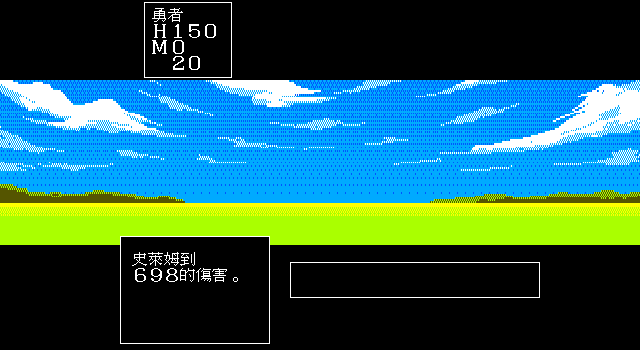
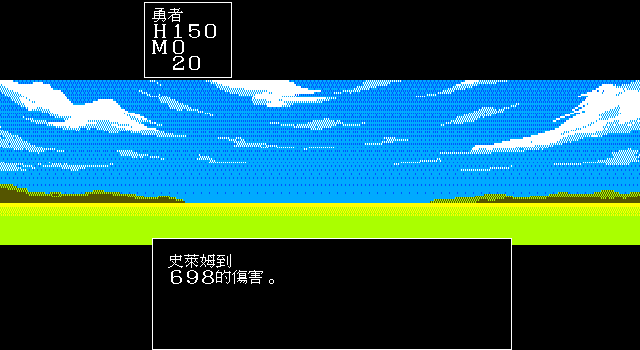
fix: 對齊精訊版戰鬥訊息視窗幾何

diff --git a/dq3_remake_ebitan/game/battle.go b/dq3_remake_ebitan/game/battle.go
@@ -6,6 +6,7 @@ import (
 
 	"github.com/wicanr2/dq3_remake_ebitan/internal/battle"
 	"github.com/wicanr2/dq3_remake_ebitan/internal/dq3data"
+	"github.com/wicanr2/dq3_remake_ebitan/internal/gamepack"
 	dosrng "github.com/wicanr2/dq3_remake_ebitan/internal/rng"
 	"github.com/wicanr2/dq3_remake_ebitan/internal/spell"
 )
@@ -178,6 +179,7 @@ type Battle struct {
 	statusSleepingID   string // battleTextStatusSleeping 的 pack role ID
 	statusWokeID       string // battleTextStatusWoke 的 pack role ID
 	texts              map[string]battleTextDefinition
+	messageLayout      gamepack.WindowLayout // pack-owned shared battle message rect
 
 	// per-battle 修正狀態(W3,docs/data/spell-effects-research.md;每場 startGroup 歸零,
 	// 對齊 C reset_battle_mods() 類型的每戰暫態修正。151/154 是單體、155 是我方全體，
@@ -226,6 +228,13 @@ func (b *Battle) setTextDefinitions(defs map[string]battleTextDefinition) {
 	if def, ok := b.texts[battleTextStatusWoke]; ok {
 		b.statusWokeID, b.statusWokeText = battleTextStatusWoke, def.value
 	}
+}
+
+// setMessageLayout installs the validated pack-owned battle message window.
+// Direct Battle fixtures may leave it empty; production startup rejects that
+// omission before a player can enter a battle.
+func (b *Battle) setMessageLayout(layout gamepack.WindowLayout) {
+	b.messageLayout = layout
 }
 
 func (b *Battle) showMessage(m battleMessage) {
@@ -1746,98 +1755,105 @@ func (b *Battle) draw(rgba []byte, scenePal []dq3data.Color) {
 			}
 		}
 	}
-	// 下方左:指令窗(120,236,150×108)—— 指令 或 咒文子選單
-	{
-		mx, my, mw, mh := 120, 236, 150, 108
-		fillBox(rgba, mx, my, mw, mh, white)
-		if b.phase == phSpell {
-			spells := b.actorSpells(b.commandActor)
-			// 原版視窗只有 5 行；已學咒文超過 5 筆時，讓目前游標保持在可見
-			// 範圍內。舊版只畫前 5 筆，游標移到第 6 筆後會成為不可見選項。
-			start := 0
-			if b.spellCursor >= 5 {
-				start = b.spellCursor - 4
-			}
-			for row, i := 0, start; row < 5 && i < len(spells); row, i = row+1, i+1 {
-				rec := spells[i]
-				y := my + 24 + row*16
-				if i == b.spellCursor {
+	if b.phase == phMessage {
+		w := b.messageLayout
+		if w.ID != "" {
+			fillBox(rgba, w.X, w.Y, w.Width, w.Height, white)
+			drawBattleMessage(rgba, b.tx, w.X+w.TextInsetX, w.Y+w.TextInsetY,
+				w.Columns, b.msgData, white)
+		}
+	} else {
+		// 下方左:指令窗(原版 sub_c169 的指令／咒文子選單)
+		{
+			mx, my, mw, mh := 120, 236, 150, 108
+			fillBox(rgba, mx, my, mw, mh, white)
+			if b.phase == phSpell {
+				spells := b.actorSpells(b.commandActor)
+				// 原版視窗只有 5 行；已學咒文超過 5 筆時，讓目前游標保持在可見
+				// 範圍內。舊版只畫前 5 筆，游標移到第 6 筆後會成為不可見選項。
+				start := 0
+				if b.spellCursor >= 5 {
+					start = b.spellCursor - 4
+				}
+				for row, i := 0, start; row < 5 && i < len(spells); row, i = row+1, i+1 {
+					rec := spells[i]
+					y := my + 24 + row*16
+					if i == b.spellCursor {
+						drawGlyph(rgba, b.tx, mx+8, y, curGlyph, white)
+					}
+					b.drawName(rgba, mx+28, y, rec, white)
+					if def, ok := spell.GetDef(rec); ok {
+						drawNumber(rgba, b.tx, mx+110, y, def.MP, cyan)
+					}
+					b.hits.add(mx, y-4, mw, 16, i)
+				}
+			} else if b.phase == phTargetEnemy {
+				targets := b.aliveEnemyIndices()
+				if len(targets) > 0 {
+					target := targets[b.targetCursor]
+					y := my + 24
 					drawGlyph(rgba, b.tx, mx+8, y, curGlyph, white)
+					b.drawName(rgba, mx+28, y, 0x258+b.enemies[target].monID, white)
+					drawNumber(rgba, b.tx, mx+112, y, target+1, cyan)
 				}
-				b.drawName(rgba, mx+28, y, rec, white)
-				if def, ok := spell.GetDef(rec); ok {
-					drawNumber(rgba, b.tx, mx+110, y, def.MP, cyan)
-				}
-				b.hits.add(mx, y-4, mw, 16, i)
-			}
-		} else if b.phase == phTargetEnemy {
-			targets := b.aliveEnemyIndices()
-			if len(targets) > 0 {
-				target := targets[b.targetCursor]
-				y := my + 24
-				drawGlyph(rgba, b.tx, mx+8, y, curGlyph, white)
-				b.drawName(rgba, mx+28, y, 0x258+b.enemies[target].monID, white)
-				drawNumber(rgba, b.tx, mx+112, y, target+1, cyan)
-			}
-		} else if b.phase == phTargetAlly {
-			targets := b.aliveActorIndices()
-			if len(targets) > 0 {
-				actor := targets[b.targetCursor]
-				y := my + 24
-				drawGlyph(rgba, b.tx, mx+8, y, curGlyph, white)
-				name := classNames[0]
-				if actor > 0 {
-					name = classNames[b.companions[actor-1].class]
-				}
-				for i, glyph := range name {
-					drawGlyph(rgba, b.tx, mx+28+i*16, y, glyph, white)
-				}
-			}
-		} else if b.phase == phMessage {
-			drawBattleMessage(rgba, b.tx, mx+12, my+16, 8, b.msgData, white)
-		} else if b.phase == phCommand {
-			menu := b.commandMenu(b.commandActor)
-			for i, kind := range menu {
-				y := my + 24 + i*16
-				if i == b.cursor {
+			} else if b.phase == phTargetAlly {
+				targets := b.aliveActorIndices()
+				if len(targets) > 0 {
+					actor := targets[b.targetCursor]
+					y := my + 24
 					drawGlyph(rgba, b.tx, mx+8, y, curGlyph, white)
+					name := classNames[0]
+					if actor > 0 {
+						name = classNames[b.companions[actor-1].class]
+					}
+					for i, glyph := range name {
+						drawGlyph(rgba, b.tx, mx+28+i*16, y, glyph, white)
+					}
 				}
-				label := battleCmdLabels[kind]
-				drawGlyph(rgba, b.tx, mx+28, y, label[0], white)
-				drawGlyph(rgba, b.tx, mx+72, y, label[1], white)
-				b.hits.add(mx, y-4, mw, 16, i)
-			}
-		}
-	}
-	// 下方右:敵名框。混合 formation 逐種列名與存活數；同種群維持單列。
-	{
-		type namedCount struct{ monID, count int }
-		var names []namedCount
-		for i := range b.enemies {
-			if !b.enemies[i].alive() {
-				continue
-			}
-			found := false
-			for j := range names {
-				if names[j].monID == b.enemies[i].monID {
-					names[j].count++
-					found = true
-					break
+			} else if b.phase == phCommand {
+				menu := b.commandMenu(b.commandActor)
+				for i, kind := range menu {
+					y := my + 24 + i*16
+					if i == b.cursor {
+						drawGlyph(rgba, b.tx, mx+8, y, curGlyph, white)
+					}
+					label := battleCmdLabels[kind]
+					drawGlyph(rgba, b.tx, mx+28, y, label[0], white)
+					drawGlyph(rgba, b.tx, mx+72, y, label[1], white)
+					b.hits.add(mx, y-4, mw, 16, i)
 				}
 			}
-			if !found {
-				names = append(names, namedCount{monID: b.enemies[i].monID, count: 1})
+		}
+		// 下方右:敵名框。混合 formation 逐種列名與存活數；同種群維持單列。
+		{
+			type namedCount struct{ monID, count int }
+			var names []namedCount
+			for i := range b.enemies {
+				if !b.enemies[i].alive() {
+					continue
+				}
+				found := false
+				for j := range names {
+					if names[j].monID == b.enemies[i].monID {
+						names[j].count++
+						found = true
+						break
+					}
+				}
+				if !found {
+					names = append(names, namedCount{monID: b.enemies[i].monID, count: 1})
+				}
 			}
-		}
-		ex, ey, ew, eh := 290, 262, 250, 20+16*len(names)
-		if eh < 36 {
-			eh = 36
-		}
-		fillBox(rgba, ex, ey, ew, eh, white)
-		for i, n := range names {
-			y := ey + 8 + i*16
-			b.drawName(rgba, ex+12, y, 0x258+n.monID, white)
-			drawNumber(rgba, b.tx, ex+ew-40, y, n.count, white)
+			ex, ey, ew, eh := 290, 262, 250, 20+16*len(names)
+			if eh < 36 {
+				eh = 36
+			}
+			fillBox(rgba, ex, ey, ew, eh, white)
+			for i, n := range names {
+				y := ey + 8 + i*16
+				b.drawName(rgba, ex+12, y, 0x258+n.monID, white)
+				drawNumber(rgba, b.tx, ex+ew-40, y, n.count, white)
+			}
 		}
 	}
 }

diff --git a/dq3_remake_ebitan/internal/gamepack/gamepack.go b/dq3_remake_ebitan/internal/gamepack/gamepack.go
@@ -142,6 +142,7 @@ type RawScreenAsset struct {
 type Interface struct {
 	SchemaVersion       string           `json:"schema_version"`
 	Dialogue            WindowLayout     `json:"dialogue"`
+	BattleMessage       WindowLayout     `json:"battle_message,omitempty"`
 	PartyHUD            WindowLayout     `json:"party_hud,omitempty"`
 	Attract             *AttractSequence `json:"attract,omitempty"`
 	NewGameConfirmation *RawScreenAsset  `json:"new_game_confirmation,omitempty"`
@@ -1254,6 +1255,17 @@ func (p *Pack) validateInterface() error {
 	}
 	if err := validateEvidence(w.Evidence); err != nil {
 		return fmt.Errorf("dialogue evidence: %w", err)
+	}
+	if m := p.Interface.BattleMessage; m.ID != "" {
+		if m.X < 0 || m.Y < 0 || m.Width <= 0 || m.Height <= 0 ||
+			m.TextInsetX < 0 || m.TextInsetY < 0 ||
+			m.TextInsetX*2 >= m.Width || m.TextInsetY*2 >= m.Height ||
+			m.Columns <= 0 || m.Columns > 100 || m.LinesPerPage <= 0 || m.LinesPerPage > 20 {
+			return errors.New("battle message window layout is invalid")
+		}
+		if err := validateEvidence(m.Evidence); err != nil {
+			return fmt.Errorf("battle message evidence: %w", err)
+		}
 	}
 	if h := p.Interface.PartyHUD; h.ID != "" {
 		if h.X < 0 || h.Y < 0 || h.Width <= 0 || h.Height <= 0 ||
@@ -3237,6 +3249,16 @@ func (p *Pack) ItemUseEffectByRawID(itemRawID int) (*ItemUseEffect, bool) {
 
 func (p *Pack) DialogueWindowLayout() WindowLayout {
 	return p.Interface.Dialogue
+}
+
+// BattleMessageWindowLayout returns the pack-owned message window used while
+// a battle action or result is being displayed. Production callers must check
+// the boolean instead of inventing a version-specific rectangle.
+func (p *Pack) BattleMessageWindowLayout() (WindowLayout, bool) {
+	if p.Interface.BattleMessage.ID == "" {
+		return WindowLayout{}, false
+	}
+	return p.Interface.BattleMessage, true
 }
 
 // PartyHUDLayout is absent for packs that do not expose a longitudinal party

diff --git a/dq3_remake_ebitan/internal/gamepack/gamepack_test.go b/dq3_remake_ebitan/internal/gamepack/gamepack_test.go
@@ -1650,6 +1650,37 @@ func TestDQ3DialogueWindowMatchesOriginalEXE(t *testing.T) {
 	}
 }
 
+func TestDQ3BattleMessageWindowMatchesOriginalEXE(t *testing.T) {
+	dir := os.Getenv("DQ3_ASSETS")
+	if dir == "" {
+		dir = filepath.Join("..", "..", "..", "assets_raw")
+	}
+	exe, err := os.ReadFile(filepath.Join(dir, "DQ3.EXE"))
+	if err != nil {
+		t.Skipf("original DQ3.EXE unavailable: %v", err)
+	}
+	p, err := BuiltinDQ3()
+	if err != nil {
+		t.Fatalf("BuiltinDQ3: %v", err)
+	}
+	got, ok := p.BattleMessageWindowLayout()
+	if !ok {
+		t.Fatal("builtin pack missing battle message layout")
+	}
+	want := WindowLayout{ID: "dq3:window.battle_message", X: 152, Y: 238, Width: 360, Height: 112,
+		TextInsetX: 16, TextInsetY: 16, Columns: 20, LinesPerPage: 4, Evidence: got.Evidence}
+	if !reflect.DeepEqual(got, want) {
+		t.Fatalf("battle message layout=%+v, want %+v", got, want)
+	}
+	// The shared win_rect at DGROUP 0x3e6e is consumed by both scripted
+	// dialogue and battle text_draw; preserve the raw file bytes as parity.
+	const off = 0x19fae
+	wantRaw := []byte{0x0b, 0x01, 0x13, 0x00, 0xee, 0x00, 0x2c, 0x00, 0x60, 0x00}
+	if len(exe) < off+len(wantRaw) || !bytes.Equal(exe[off:off+len(wantRaw)], wantRaw) {
+		t.Fatalf("DQ3.EXE battle message window structure at file %#x does not match", off)
+	}
+}
+
 func TestDQ3PartySpriteAndHUDContract(t *testing.T) {
 	p, err := BuiltinDQ3()
 	if err != nil {

diff --git a/dq3_remake_ebitan/game/game.go b/dq3_remake_ebitan/game/game.go
@@ -2581,6 +2581,10 @@ func NewGameWithPack(assets fs.FS, music fs.FS, pack *gamepack.Pack) (*Game, err
 	if !ok {
 		return nil, fmt.Errorf("game pack missing interface.battle_texts")
 	}
+	battleMessageLayout, ok := pack.BattleMessageWindowLayout()
+	if !ok {
+		return nil, fmt.Errorf("game pack missing interface.battle_message")
+	}
 	battleDefs := make(map[string]battleTextDefinition, len(battleRefs.IDs()))
 	for role, id := range battleRefs.IDs() {
 		if id == "" {
@@ -2618,6 +2622,7 @@ func NewGameWithPack(assets fs.FS, music fs.FS, pack *gamepack.Pack) (*Game, err
 	}
 	g.dlg.layout = pack.DialogueWindowLayout()
 	g.battle.setTextDefinitions(battleDefs)
+	g.battle.setMessageLayout(battleMessageLayout)
 	g.tavern.equipment = memberEquipment
 	g.initStoryBits() // [0x4f70] NPC 可見性旗標初值(必須在預載 town0 前;零值=全清=全隱藏)
 

diff --git a/docs/84-game-pack-json-contract.md b/docs/84-game-pack-json-contract.md
@@ -960,6 +960,14 @@ row-interleaved 4bpp decoder 與 modal composition，尺寸、asset key、palett
 DQ3 canonical 使用 `FIRST.SCR`（112000 bytes、640×350）與 `docs/title/first_opening.png` 對拍；
 能力確認 modal 會在此背景上疊加 stat panels，缺失資料則 fail closed 為黑底，不推導其他版本畫面。
 
+`interface.json.battle_message` 保存戰鬥行動／結算訊息使用的版本專屬外框與文字網格，欄位
+同 `dialogue`（`id`、`x`、`y`、`width`、`height`、`text_inset_x`、`text_inset_y`、
+`columns`、`lines_per_page`、`evidence`）。DQ3 精訊版由 DQ3.EXE 的 DGROUP `0x3e6e`
+共用 `win_rect` 證實為 `(152,238,360,112)`、inset `(16,16)`、20 欄／4 行；battle
+renderer 只能讀這個 pack layout，缺少資料時 production 建立失敗，不把訊息塞回指令框或
+保留另一套 Go 座標。原始 bytes／consumer 見 [`docs/13`](13-exe-battle.md)，runtime 對拍
+由 [`docs/108`](108-battle-text-pack.md) 的戰鬥訊息圖更新。
+
 標題閒置巡禮若有原版證據，可在同一檔提供 `attract`；引擎只實作輪播狀態機，不能在
 Go 內列出職業或檔名：
 

diff --git a/PROJECT_MEMORY.md b/PROJECT_MEMORY.md
@@ -232,6 +232,12 @@ palette 與 `FIRST.SCR` asset key 已移入 `interface.json.new_game_confirmatio
 戰鬥 PNG；逃跑失敗未找到獨立原版句子，故不以「沒打中」猜代。這只完成戰鬥文字資料與 renderer，
 逐動作 timing、動畫／音效、完整抗性／formation／掉落及跨平台 release 仍未閉合。
 
+後續修正也已把戰鬥訊息外框資料化：`interface.json.battle_message` 以 DQ3.EXE DGROUP
+`0x3e6e` 的 shared `win_rect` 提供 `(152,238,360,112)`、inset `(16,16)`、20 欄／4 行；
+訊息階段不再沿用左下 150×108 指令框，也不畫空的右側敵名框。`docs/108` 與
+`dq3_remake_ebitan/docs/battle_message_queue.png` 是本輪證據；缺 geometry 時 production
+`NewGameWithPack` fail closed。其餘戰鬥 timing／動畫／音效與 V3 長尾仍未完成。
+
 ## 固定工程方法
 
 1. 每輪閉合一個垂直切片：正式入口 → 狀態交易 → 畫面/聲音 → 下一節點 → save/load。
